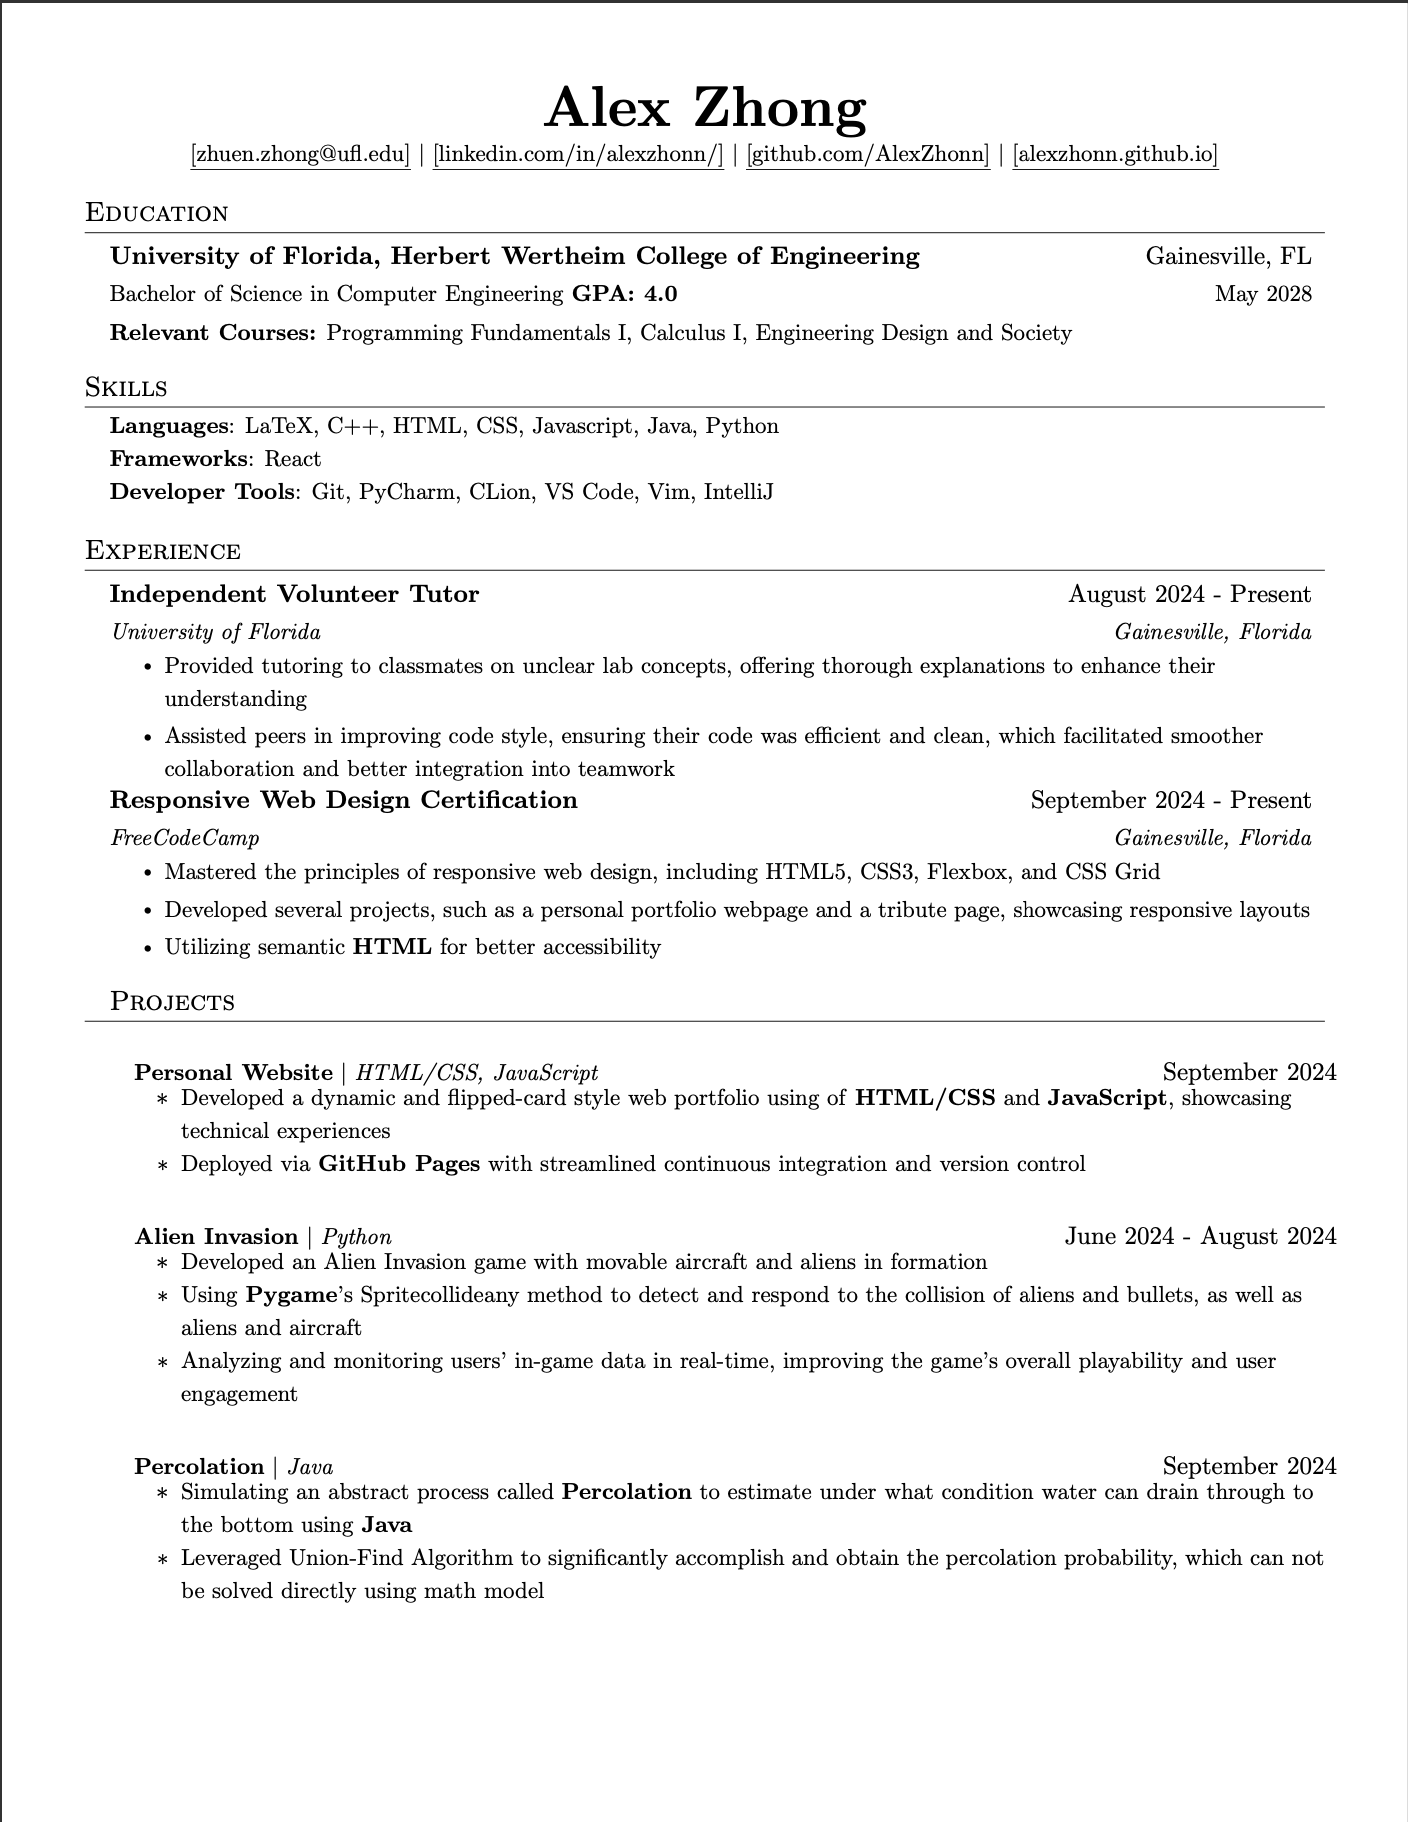
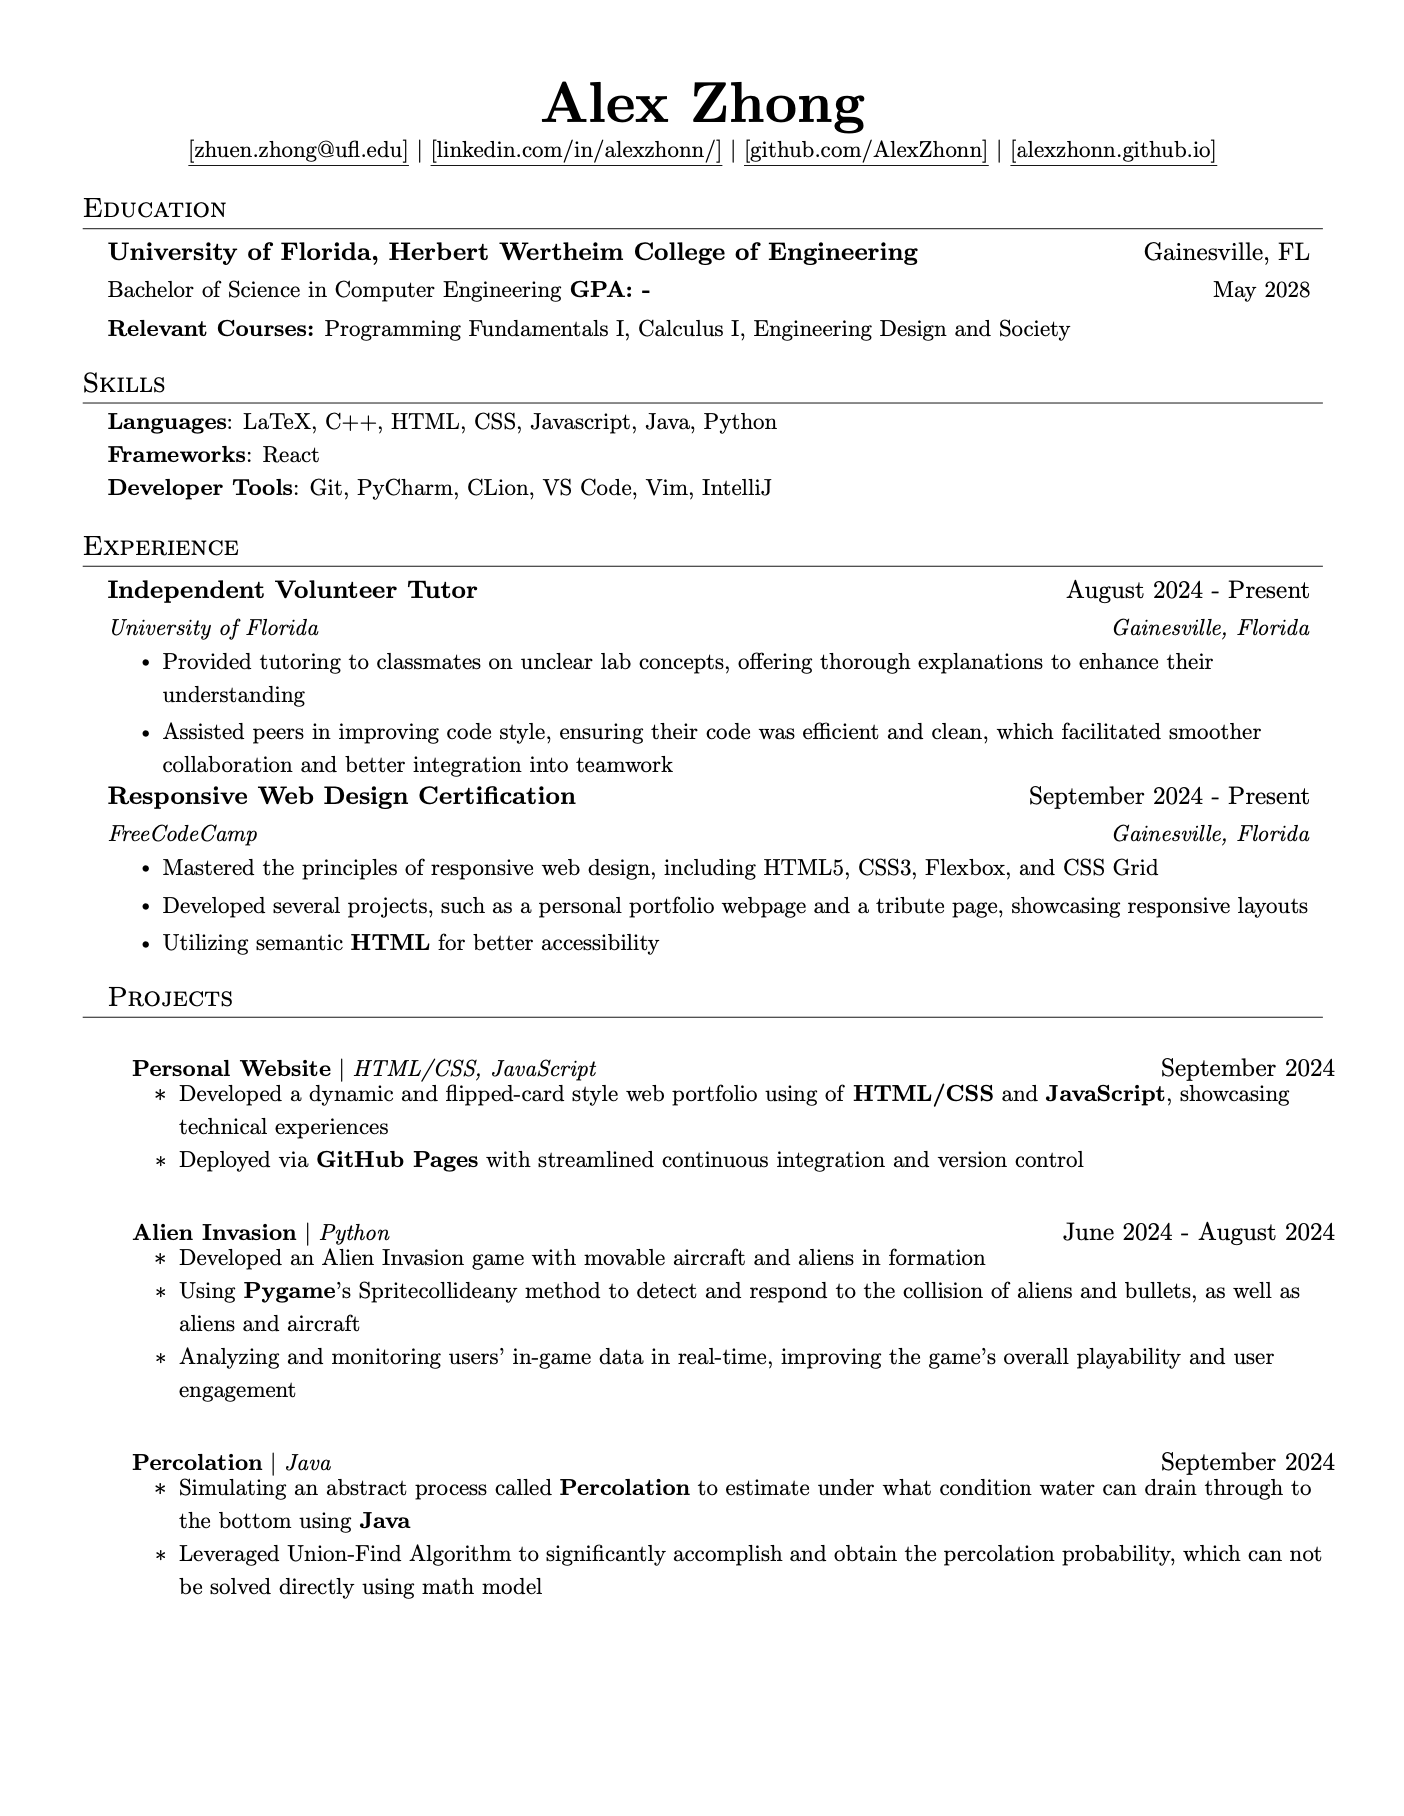
seventh push

diff --git a/Project.html b/Project.html
@@ -25,22 +25,52 @@
         <div class="card-container1">
             <div class="card">
                 <div class="card-face card-front">Personal Website | <img class="html" src="html-5.png" alt="html" style="width: 30px; height: 30px; object-fit: contain;"><img class="css" src="css-3 copy.png" src="css" style="width: 30px; height: 30px; object-fit: contain;"></div>
-                <div class="card-face card-back">1</div>
+                <div class="card-face card-back">
+                    <p>
+                    * Developed a dynamic and flipped-card style web portfolio using of HTML/CSS and JavaScript, showcasing
+                    technical experiences
+                    <br>
+                    <br>
+                    * Deployed via GitHub Pages with streamlined continuous integration and version control  
+                    </p>
+                </div>
             </div>
             <div class="card">
                 <div class="card-face card-front">Alien Invasion | <img class="python" src="python copy.png" alt="python" style="width: 30px; height: 30px; object-fit: contain;"></div>
-                <div class="card-face card-back">2</div>
+                <div class="card-face card-back">
+                    <p>
+                    * Developed an Alien Invasion game with movable aircraft and aliens in formation
+                    <br>
+                    <br>
+                    *Using Pygame’s Spritecollideany method to detect and respond to the collision of aliens and bullets, as well as
+                    aliens and aircraft
+                    <br>
+                    <br>
+                    * Analyzing and monitoring users’ in-game data in real-time, improving the game’s overall playability and user
+engagement
+                    </p>
+                </div>
             </div>
         </div>
     <div class="separate"></div>
         <div class="card-container2">
             <div class="card">
-                <div class="card-face card-front">2048 | <img class="java" src="java.png" alt="java" style="width: 30px; height: 30px; object-fit: contain;"></div>
+                <div class="card-face card-front">2048 | <img class="java" src="java.png" alt="java" style="width: 30px; height: 30px; object-fit: contain;">
+                
+                </div>
                 <div class="card-face card-back">3</div>
             </div>
             <div class="card">
                 <div class="card-face card-front">Percolation | <img class="java" src="java.png" alt="java" style="width: 30px; height: 30px; object-fit: contain;"></div>
-                <div class="card-face card-back">4</div>
+                <div class="card-face card-back">
+                    <p>* Simulating an abstract process called Percolation to estimate under what condition water can drain through to
+the bottom using Java
+                    <br>
+                    <br>
+                    * Leveraged Union-Find Algorithm to significantly accomplish and obtain the percolation probability, which can not
+be solved directly using math model
+                    </p>
+                </div>
             </div>
         </div>
    </div>

diff --git a/stylepro.css b/stylepro.css
@@ -143,7 +143,6 @@ body >.card-total{
     flex-direction: row;
     justify-content: center;
     gap:30px;
-    color:#fff;
 }
 .separate{
     height: 30px;
@@ -167,8 +166,8 @@ body >.card-total{
     width: 100%;
     height: 100%;
     backface-visibility: hidden;
-    border-radius: 25%;
-    
+    border-radius: 20%;
+    color:#ffffff
 }
 
 .card-front {
@@ -180,13 +179,15 @@ body >.card-total{
 }
 
 .card-back {
-    color: white;
+    color: #ffffff;
     transform: rotateY(180deg);
     display: flex;
     justify-content: center;
     align-items: center;
-    font-size: 24px;
+    font-size: 15px;
     border: 1px solid #ccc;
+    font-size:20px;
+    text-align: center;
 }
 
 .language{

diff --git a/index.html b/index.html
@@ -29,7 +29,7 @@
         <p class="real-description">I am an undergraduate Computer Engineering student in the Herbert Wertheim College of Engineering at the University of Florida. I am very insterested in Machine learning and deep learning.</p>
         
         <p class="title">Course Work</p>
-        <p class="diploma ">Bachelor of Science | Computer Engineering | GPA(4.0/4.0)</p>
+        <p class="diploma ">Bachelor of Science | Computer Engineering | GPA(N/A)</p>
         <p class="college">(Herbert Wertheim College of Engineering)</p>
         <p class="real-description2">Calculus I<br>Programming fundamental I<br>Engineering Design and Society</p>
     

diff --git a/Resume.html b/Resume.html
@@ -22,8 +22,9 @@
         </nav>
     </header>
     <main>
-        <p>Download My<a href="Resume_Final_.pdf" download>Resume</a></p>
-        <img src="screenshot of resume.png" style="object-fit: contain;">
+        <p>Download My<a href="Resume_Final_.pdf" download> Resume</a></p>
+        <img class="img1" src="screenshot of resume.png" style="object-fit: contain; width: 800px; height: 800px;">
+        <img class="img2" src="screenshot of resume2.png" style="object-fit: contain; width: 600px; height: 600px;">
     </main>
     
 </body>

diff --git a/styleex.css b/styleex.css
@@ -147,3 +147,25 @@ main{
           opacity: 1;
     }
 }
+
+main{
+    display: flex;
+    justify-content: center;
+    font-size: 20px;
+}
+main p{
+    position: absolute;
+    top:100px;
+}
+main .img1{
+    position: absolute;
+    top:150px;
+}
+main .img2{
+    position: absolute;
+    top:700px;
+}
+main p a{
+    color:aquamarine;
+    text-decoration: none;
+}
